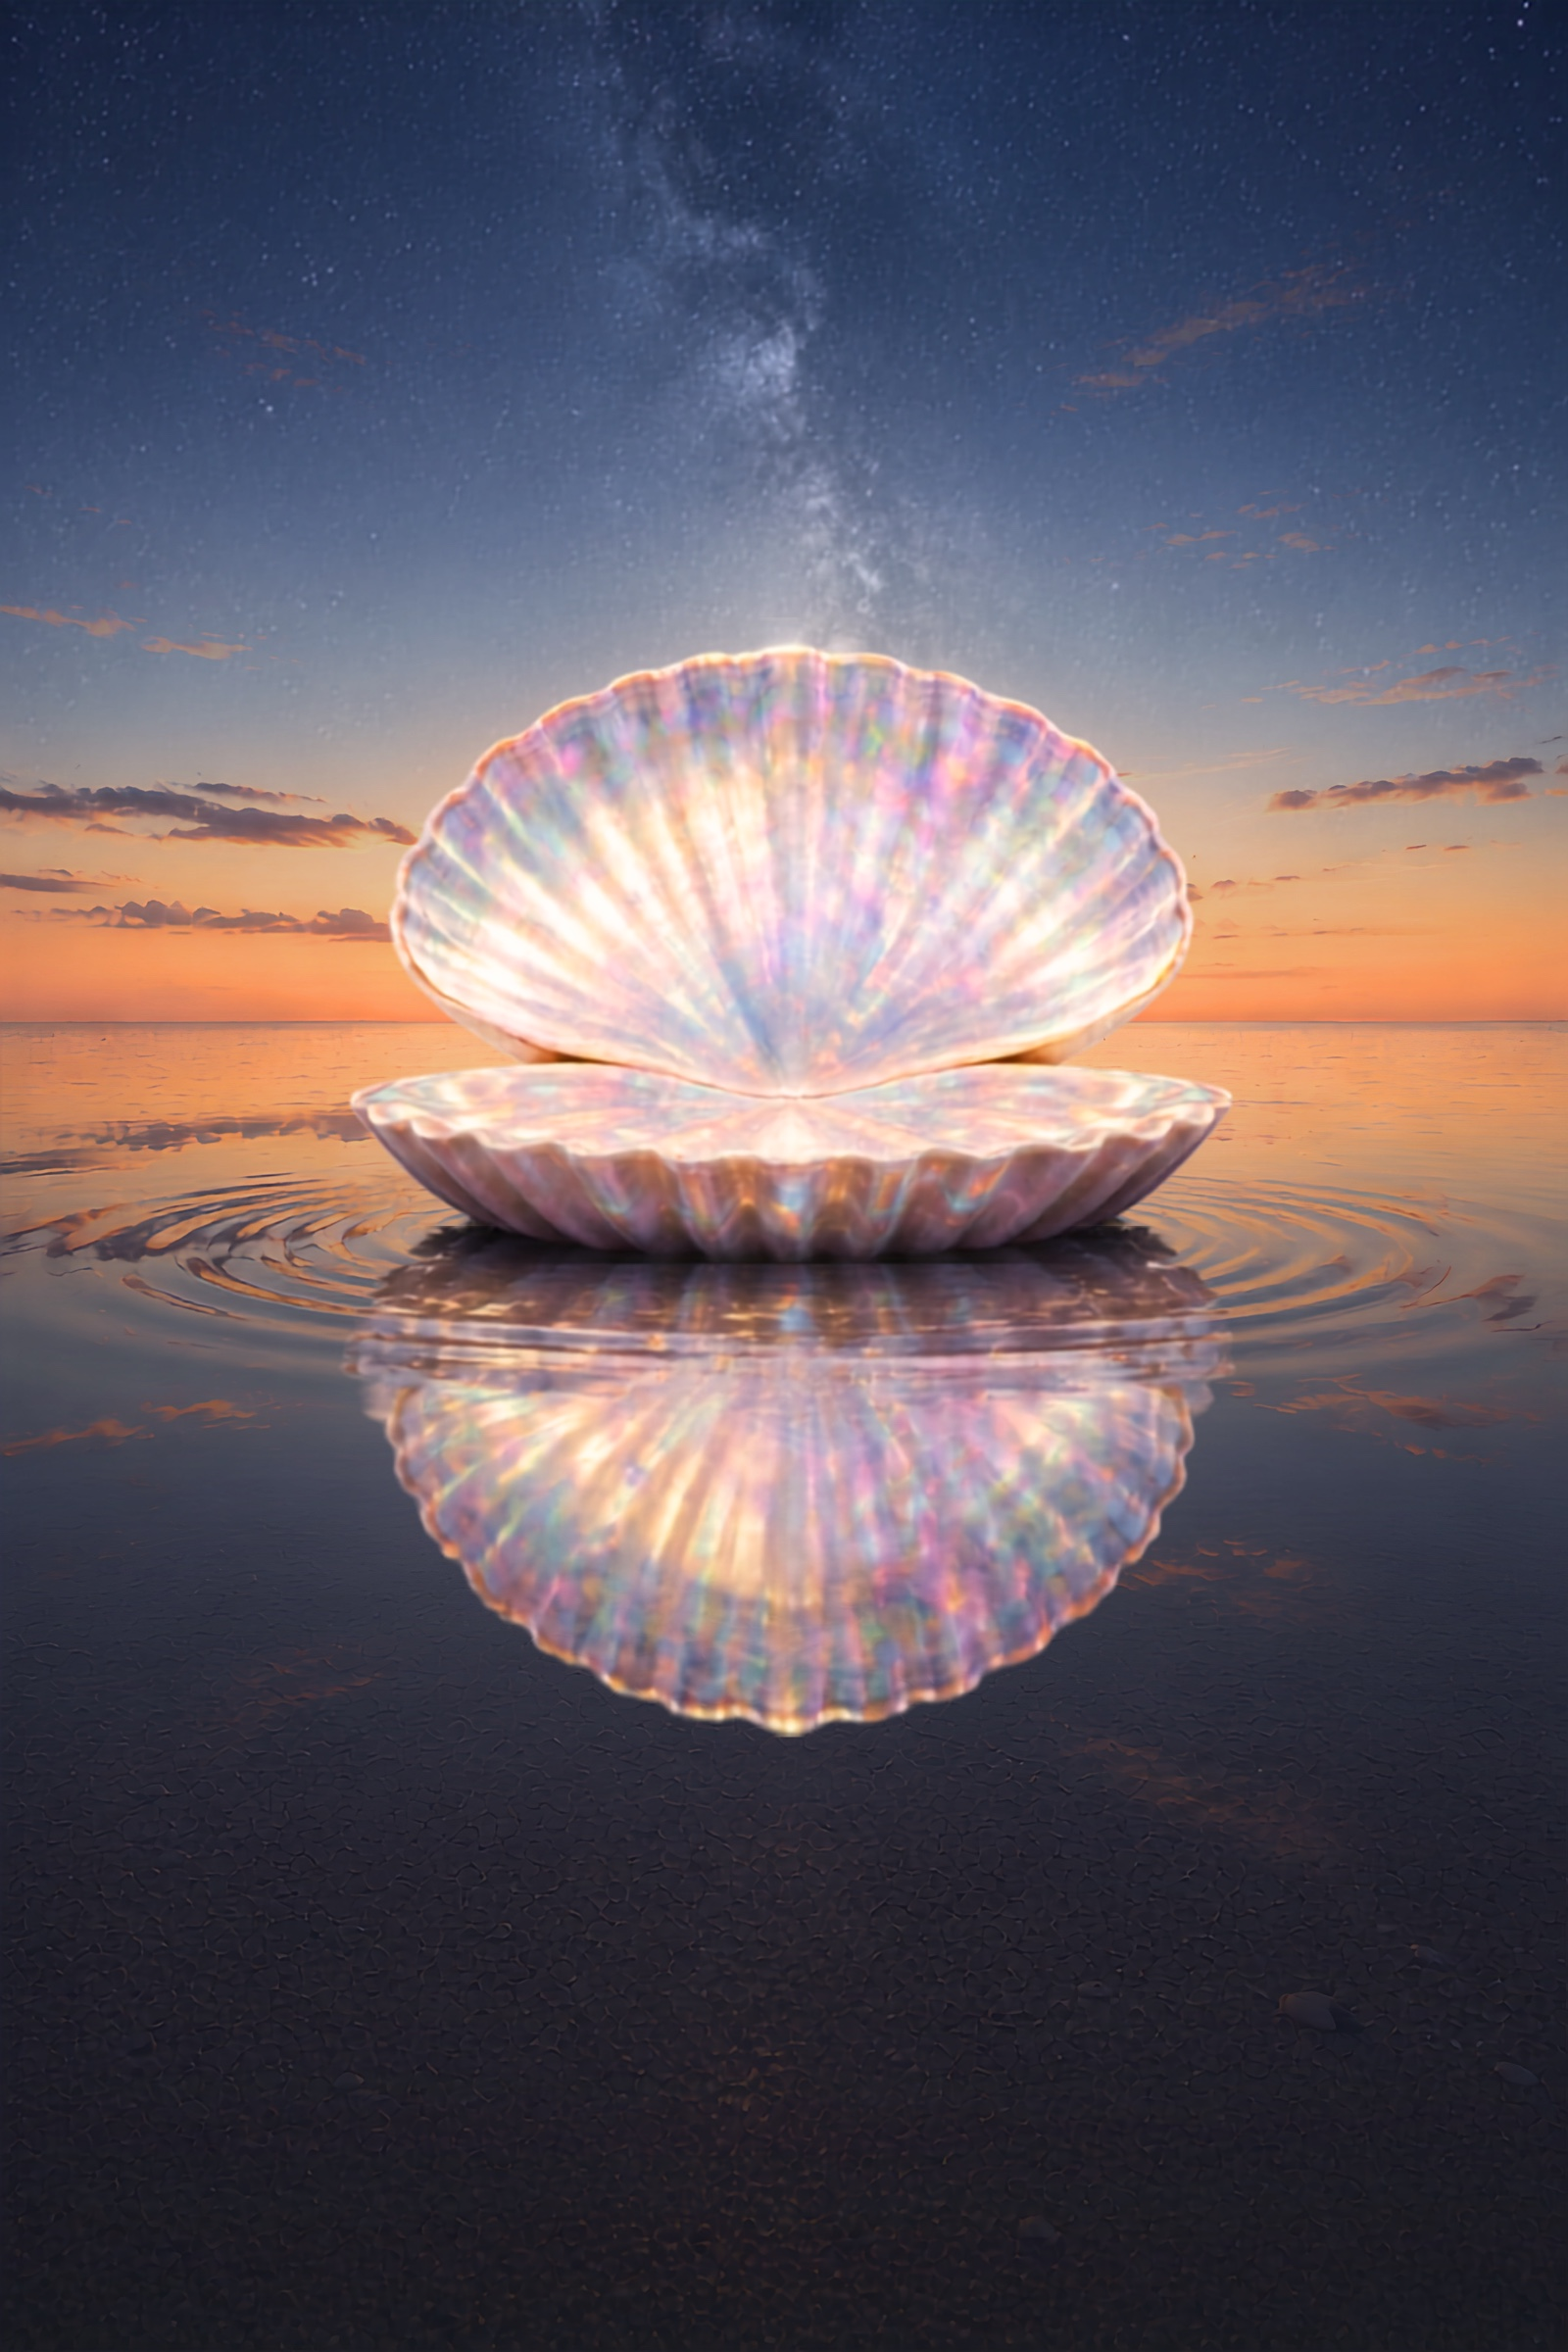
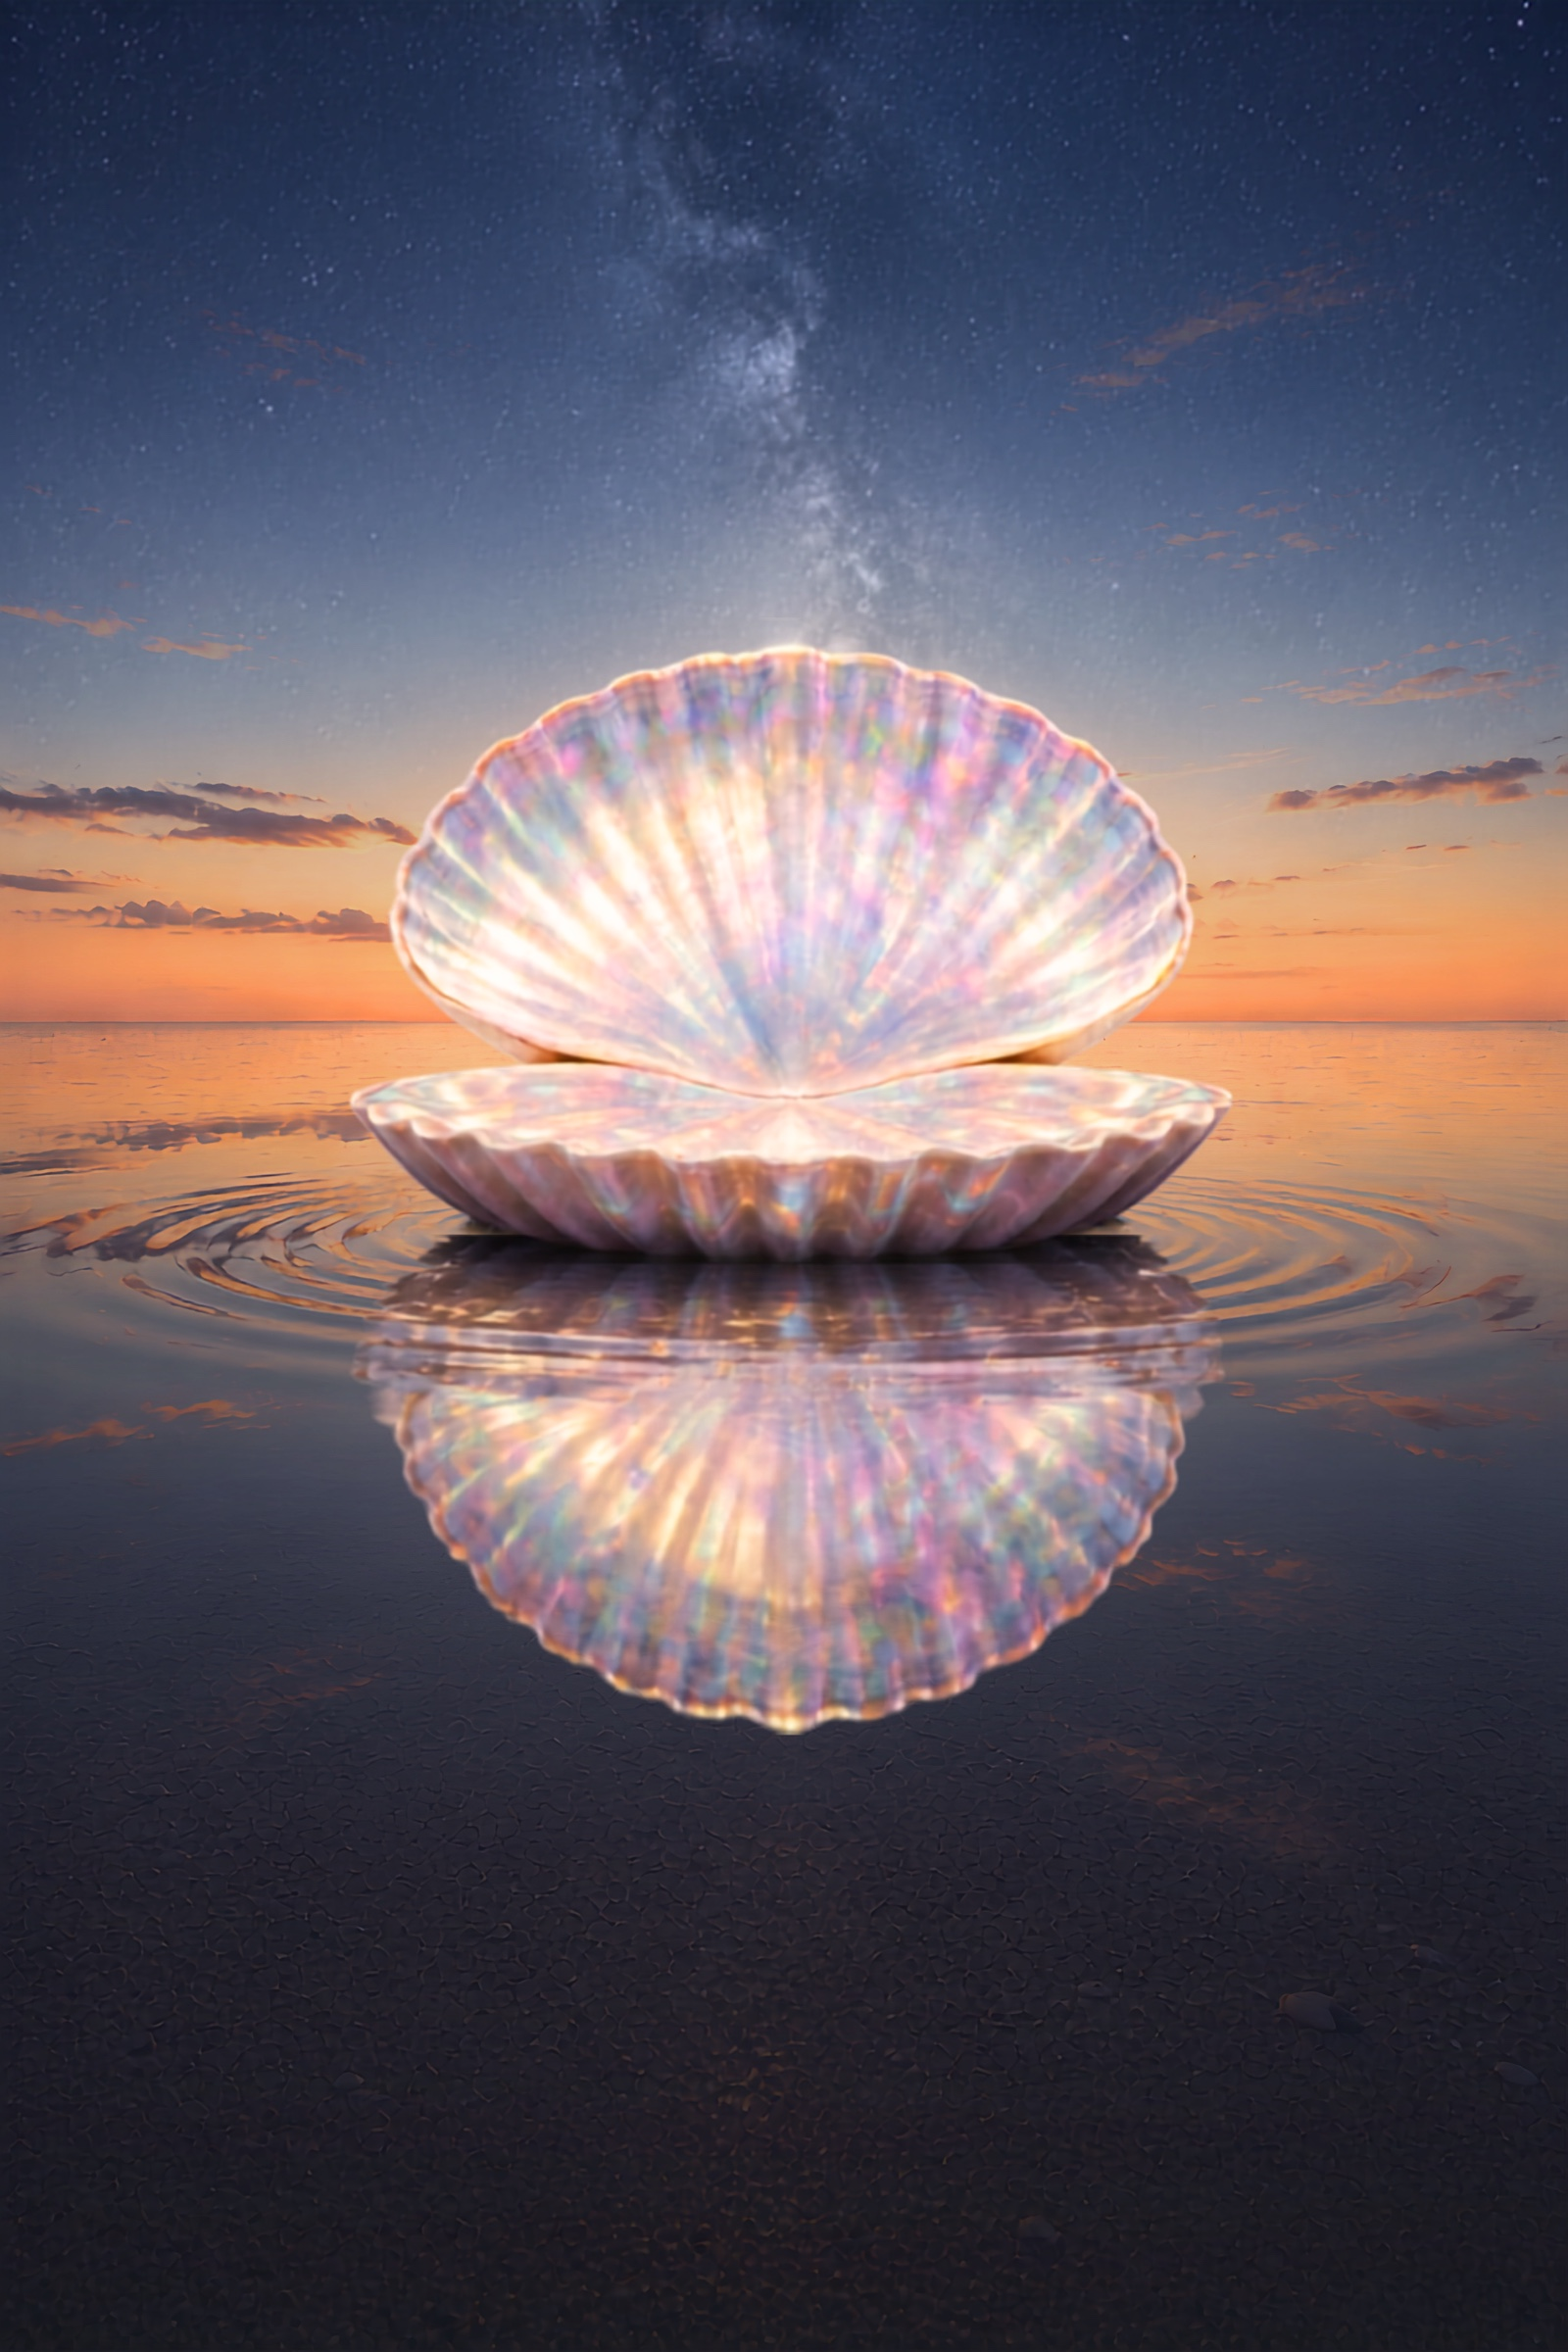
Splash: use David's edited shell master; revert wrong Mercury dusk overwrite — v1.1.254
The uploaded file was mis-named 'MERPRESHDW…' but is actually the splash (a slight edit of the
shell). Restores mercury-preshadow-2-dusk.jpg to its original and applies the edited shell to
welcome-sunset.jpg instead.

diff --git a/client/public/sw.js b/client/public/sw.js
@@ -1,7 +1,7 @@
 /* Velea service worker — enables desktop/mobile install and light offline.
    Deliberately conservative: never touches API/tRPC traffic, always prefers
    fresh HTML, and only cache-firsts Vite's content-hashed static assets. */
-const CACHE = "velea-cache-v253";
+const CACHE = "velea-cache-v254";
 const ASSET_RE = /\.(?:js|css|png|jpg|jpeg|svg|webp|woff2?|ttf|ico|webmanifest)$/;
 
 self.addEventListener("install", () => {

diff --git a/client/src/lib/version.ts b/client/src/lib/version.ts
@@ -61,4 +61,4 @@
 // light value; now rides --color-card + the day tint); (2) profection-wheel BIRTH/NOW labels
 // go gold (were #000, invisible on the dark/full-spectrum wheel); (3) nav icons swapped —
 // Today = the Velea mark (the living now), Chart = the book (your story: profection/dasha/natal).
-export const APP_VERSION = "1.1.253";
+export const APP_VERSION = "1.1.254";